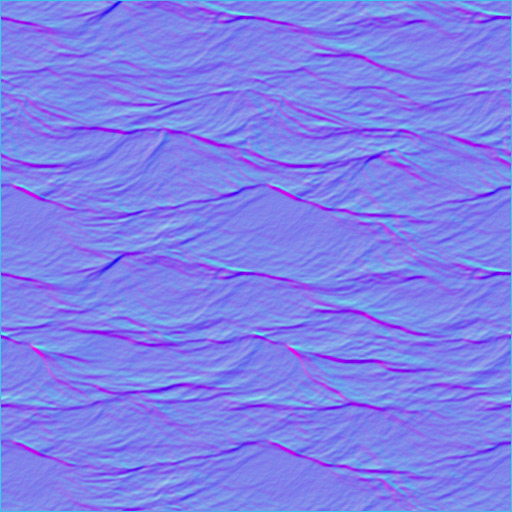
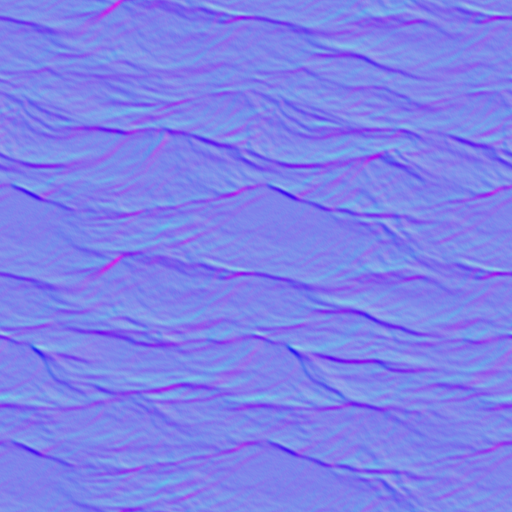
Wasser: Kachelnaht-Kreuze behoben (umlaufende Normalkarten), langsamere Wellen

diff --git a/tools/art/water_normals.py b/tools/art/water_normals.py
@@ -1,0 +1,37 @@
+"""Wellen-Normalkarten neu aus den nahtlosen Wassertexturen berechnen, mit umlaufendem Rand (kein Raster an den Kachelkanten).
+
+Aufruf:  python tools/art/water_normals.py
+Liest models/water/<id>_albedo.png und schreibt models/water/<id>_normal.png. Die alte Berechnung filterte ohne Umlauf,
+dadurch lag an jeder Kachelkante eine falsche Zeile: im Spiel als Gitter aus Kreuzen auf dem Wasser sichtbar.
+"""
+import os
+from PIL import Image, ImageChops, ImageFilter
+
+ROOT = os.path.dirname(os.path.dirname(os.path.dirname(os.path.abspath(__file__))))
+DST = os.path.join(ROOT, "models", "water")
+
+
+def normal_wrapped(img: Image.Image, strength: float) -> Image.Image:
+    g = img.convert("L")
+    n = g.size[0]
+    big = Image.new("L", (n * 3, n * 3))
+    for i in range(3):
+        for j in range(3):
+            big.paste(g, (i * n, j * n))
+    h = big.filter(ImageFilter.GaussianBlur(1.6)).crop((n, n, 2 * n, 2 * n))
+    dx = ImageChops.subtract(ImageChops.offset(h, -1, 0), ImageChops.offset(h, 1, 0), 1.0, 128)
+    dy = ImageChops.subtract(ImageChops.offset(h, 0, -1), ImageChops.offset(h, 0, 1), 1.0, 128)
+    dx = dx.point(lambda v: max(0, min(255, int(128 - (v - 128) * strength))))
+    dy = dy.point(lambda v: max(0, min(255, int(128 + (v - 128) * strength))))
+    return Image.merge("RGB", (dx, dy, Image.new("L", h.size, 235)))
+
+
+def main():
+    for name, strength in (("water_ripple", 5.0), ("water_swell", 4.0)):
+        src = Image.open(os.path.join(DST, name + "_albedo.png"))
+        normal_wrapped(src, strength).save(os.path.join(DST, name + "_normal.png"))
+        print("ok", name)
+
+
+if __name__ == "__main__":
+    main()
